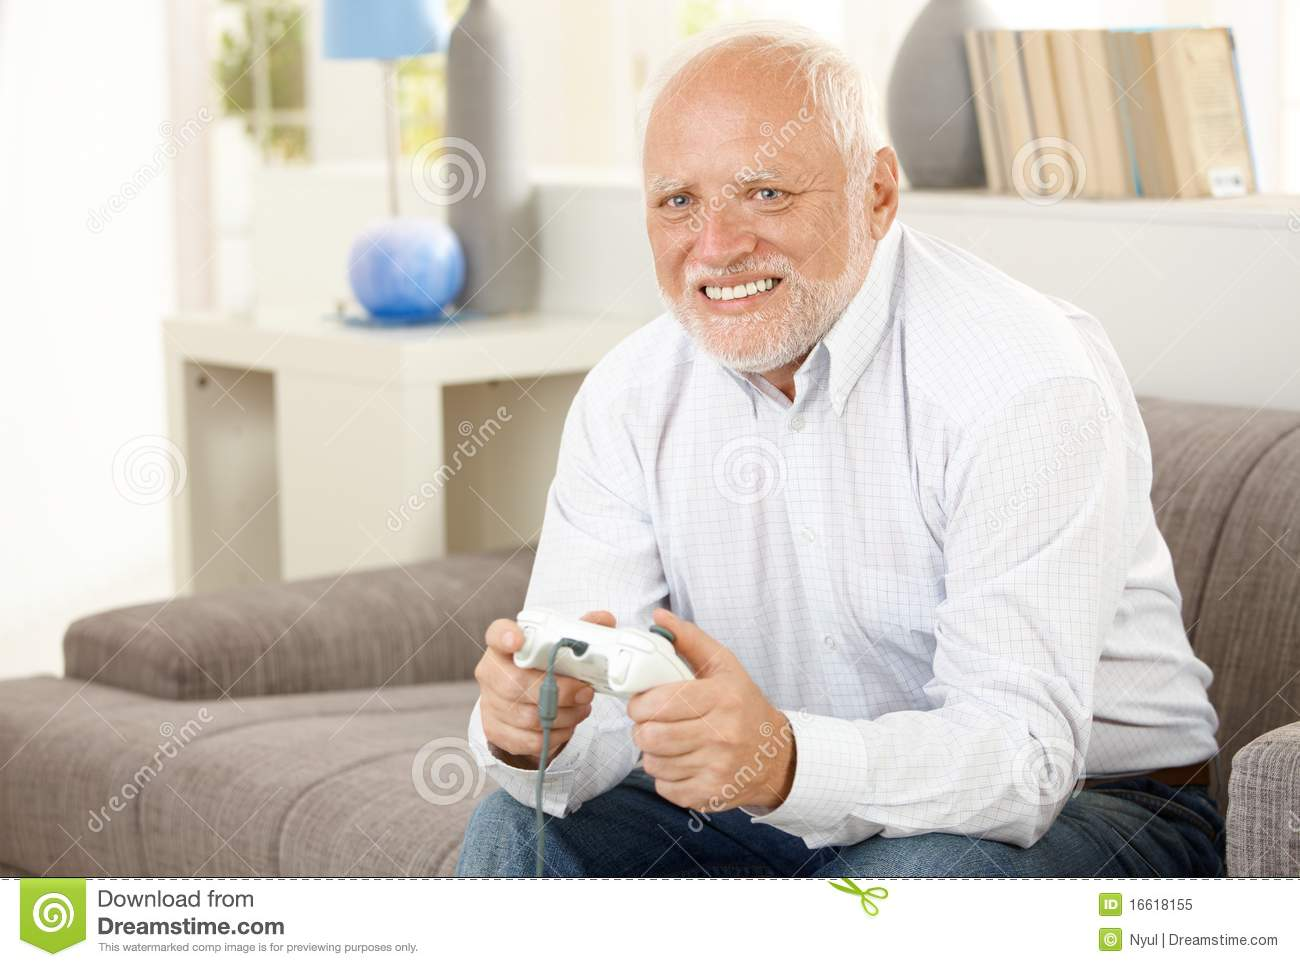
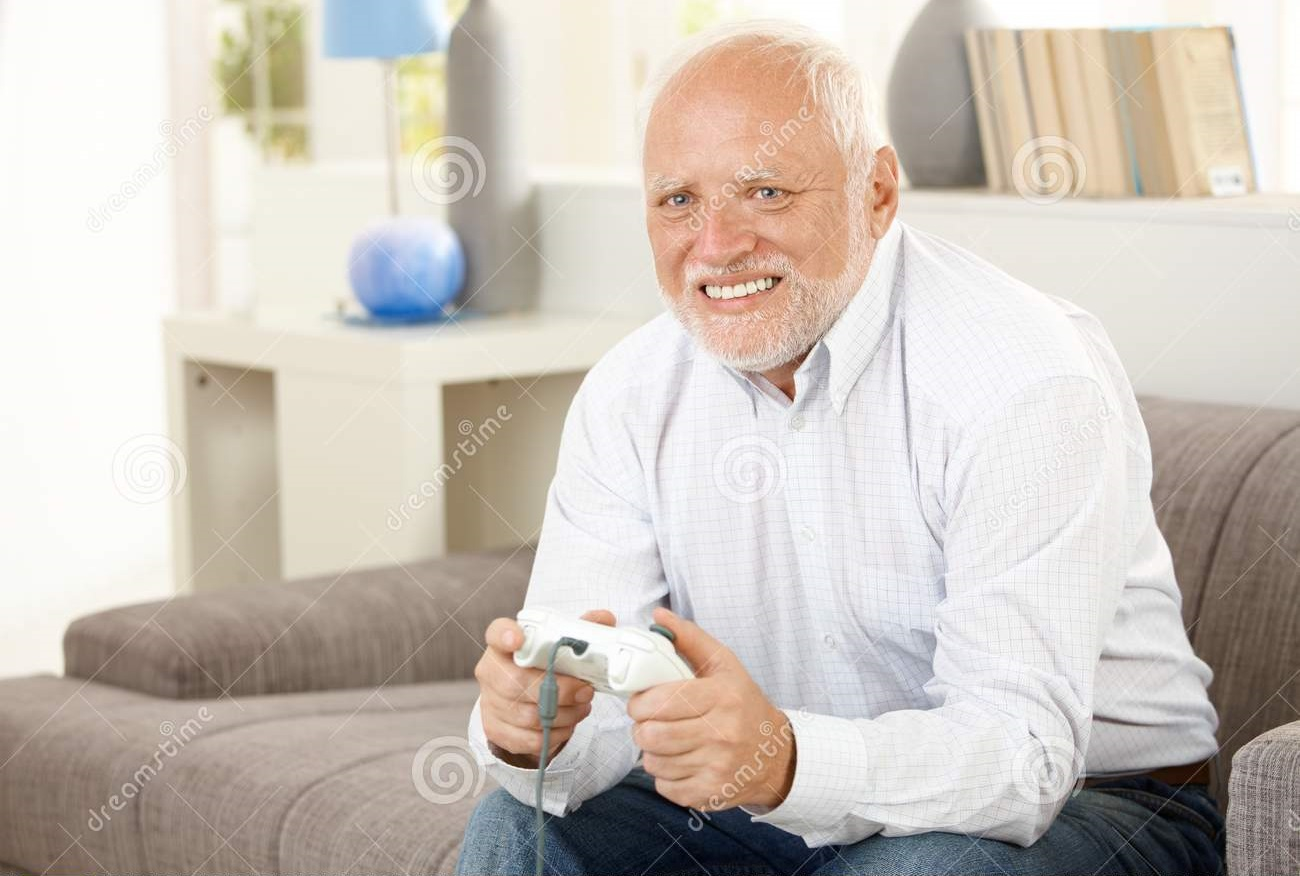
Fixed image loading

diff --git a/src/react/src/landing-page/LandingPage.jsx b/src/react/src/landing-page/LandingPage.jsx
@@ -5,6 +5,7 @@ import Box from '@mui/material/Box';
 import Paper from '@mui/material/Paper';
 import Signup from '../sign-up/Signup';
 import './LandingPage.css';
+import gamePreview from '../assets/pensioner-playing-computer-game.png';
 
 const Item = styled(Paper)(({ theme }) => ({
   backgroundColor: theme.palette.mode === 'dark' ? '#1A2027' : '#fff',
@@ -18,15 +19,15 @@ function LandingPage() {
   return (
     <div className="box-container">
       <Box sx={{ flexGrow: 1 }}>
-        <Grid container spacing={0.5}>
+        <Grid container spacing={1}>
           <Grid item xs={5}>
-            <Item>
+            <Item className="items">
               <Signup />
             </Item>
           </Grid>
           <Grid item xs={7}>
-            <Item>
-              <img src="../assets/pensioner-playing-computer-game.png" alt="Hide the pain" />
+            <Item className="items">
+              <img src={gamePreview} alt="Hide the pain" />
             </Item>
           </Grid>
         </Grid>

diff --git a/src/react/src/landing-page/LandingPage.css b/src/react/src/landing-page/LandingPage.css
@@ -2,3 +2,11 @@
     padding: 3rem 2rem 3rem 2rem;
     background-color: #333333;
 }
+
+img{
+    max-width: 100%;
+}
+
+.items{
+    height: 100%;
+}
